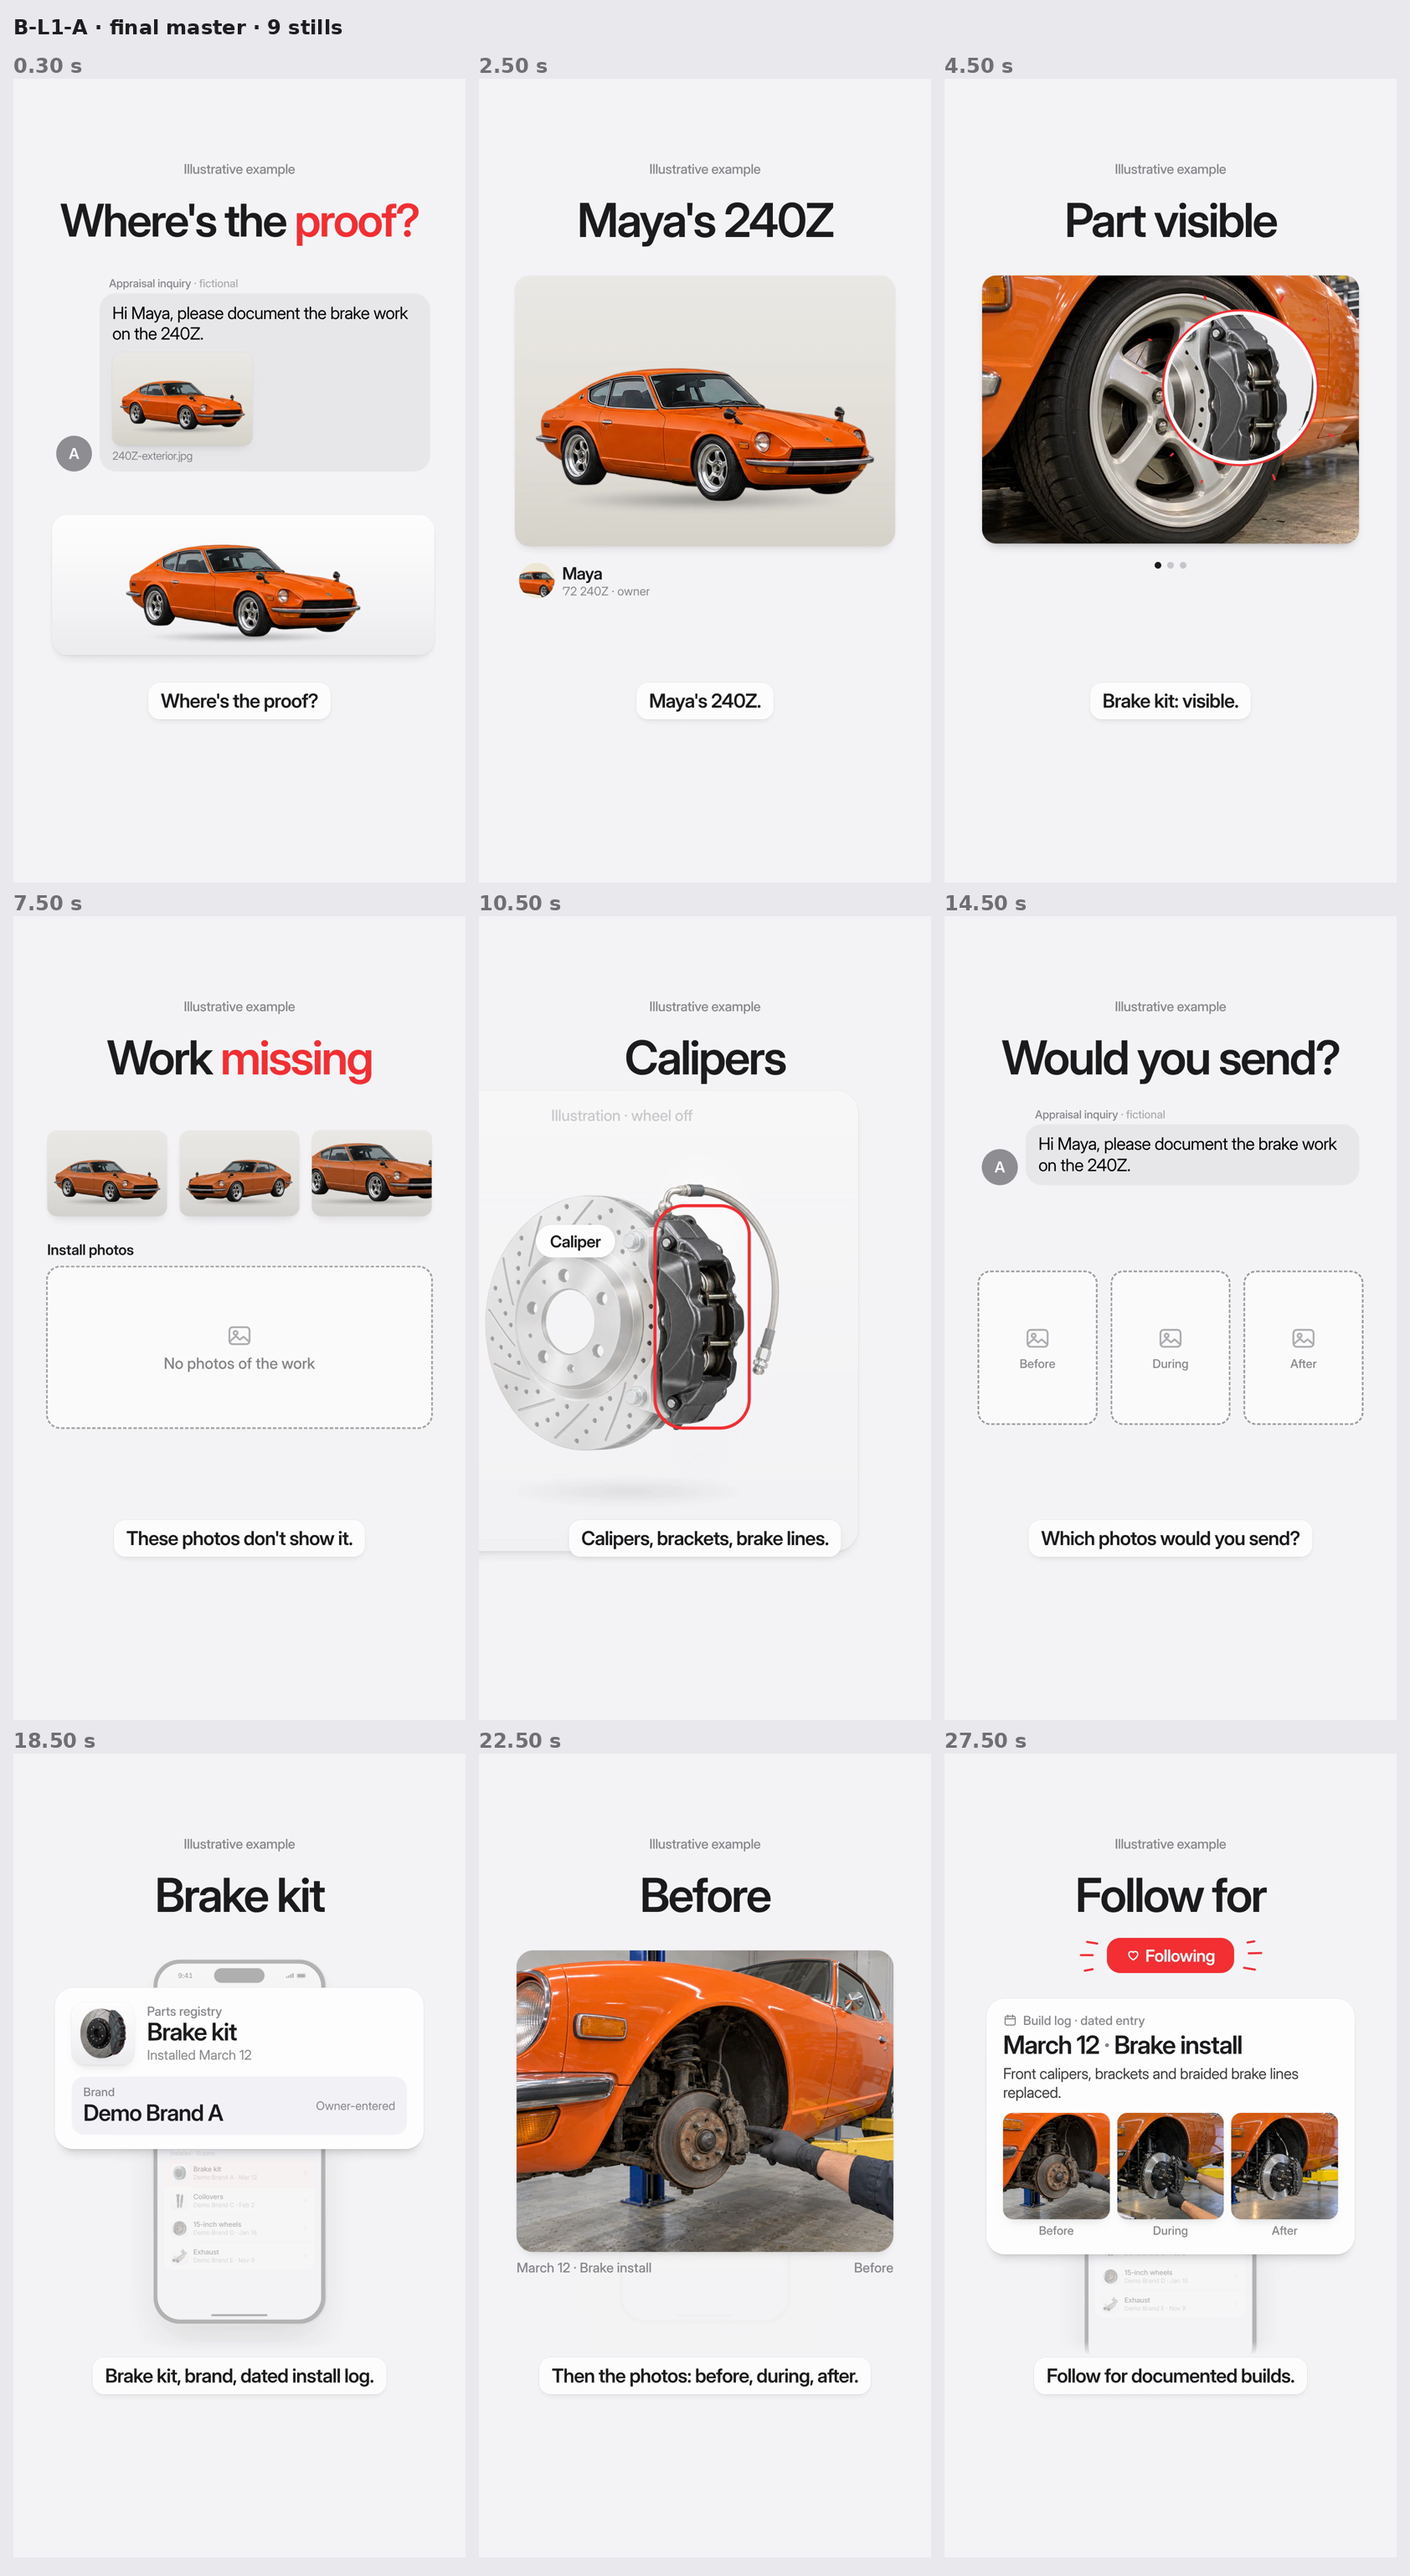
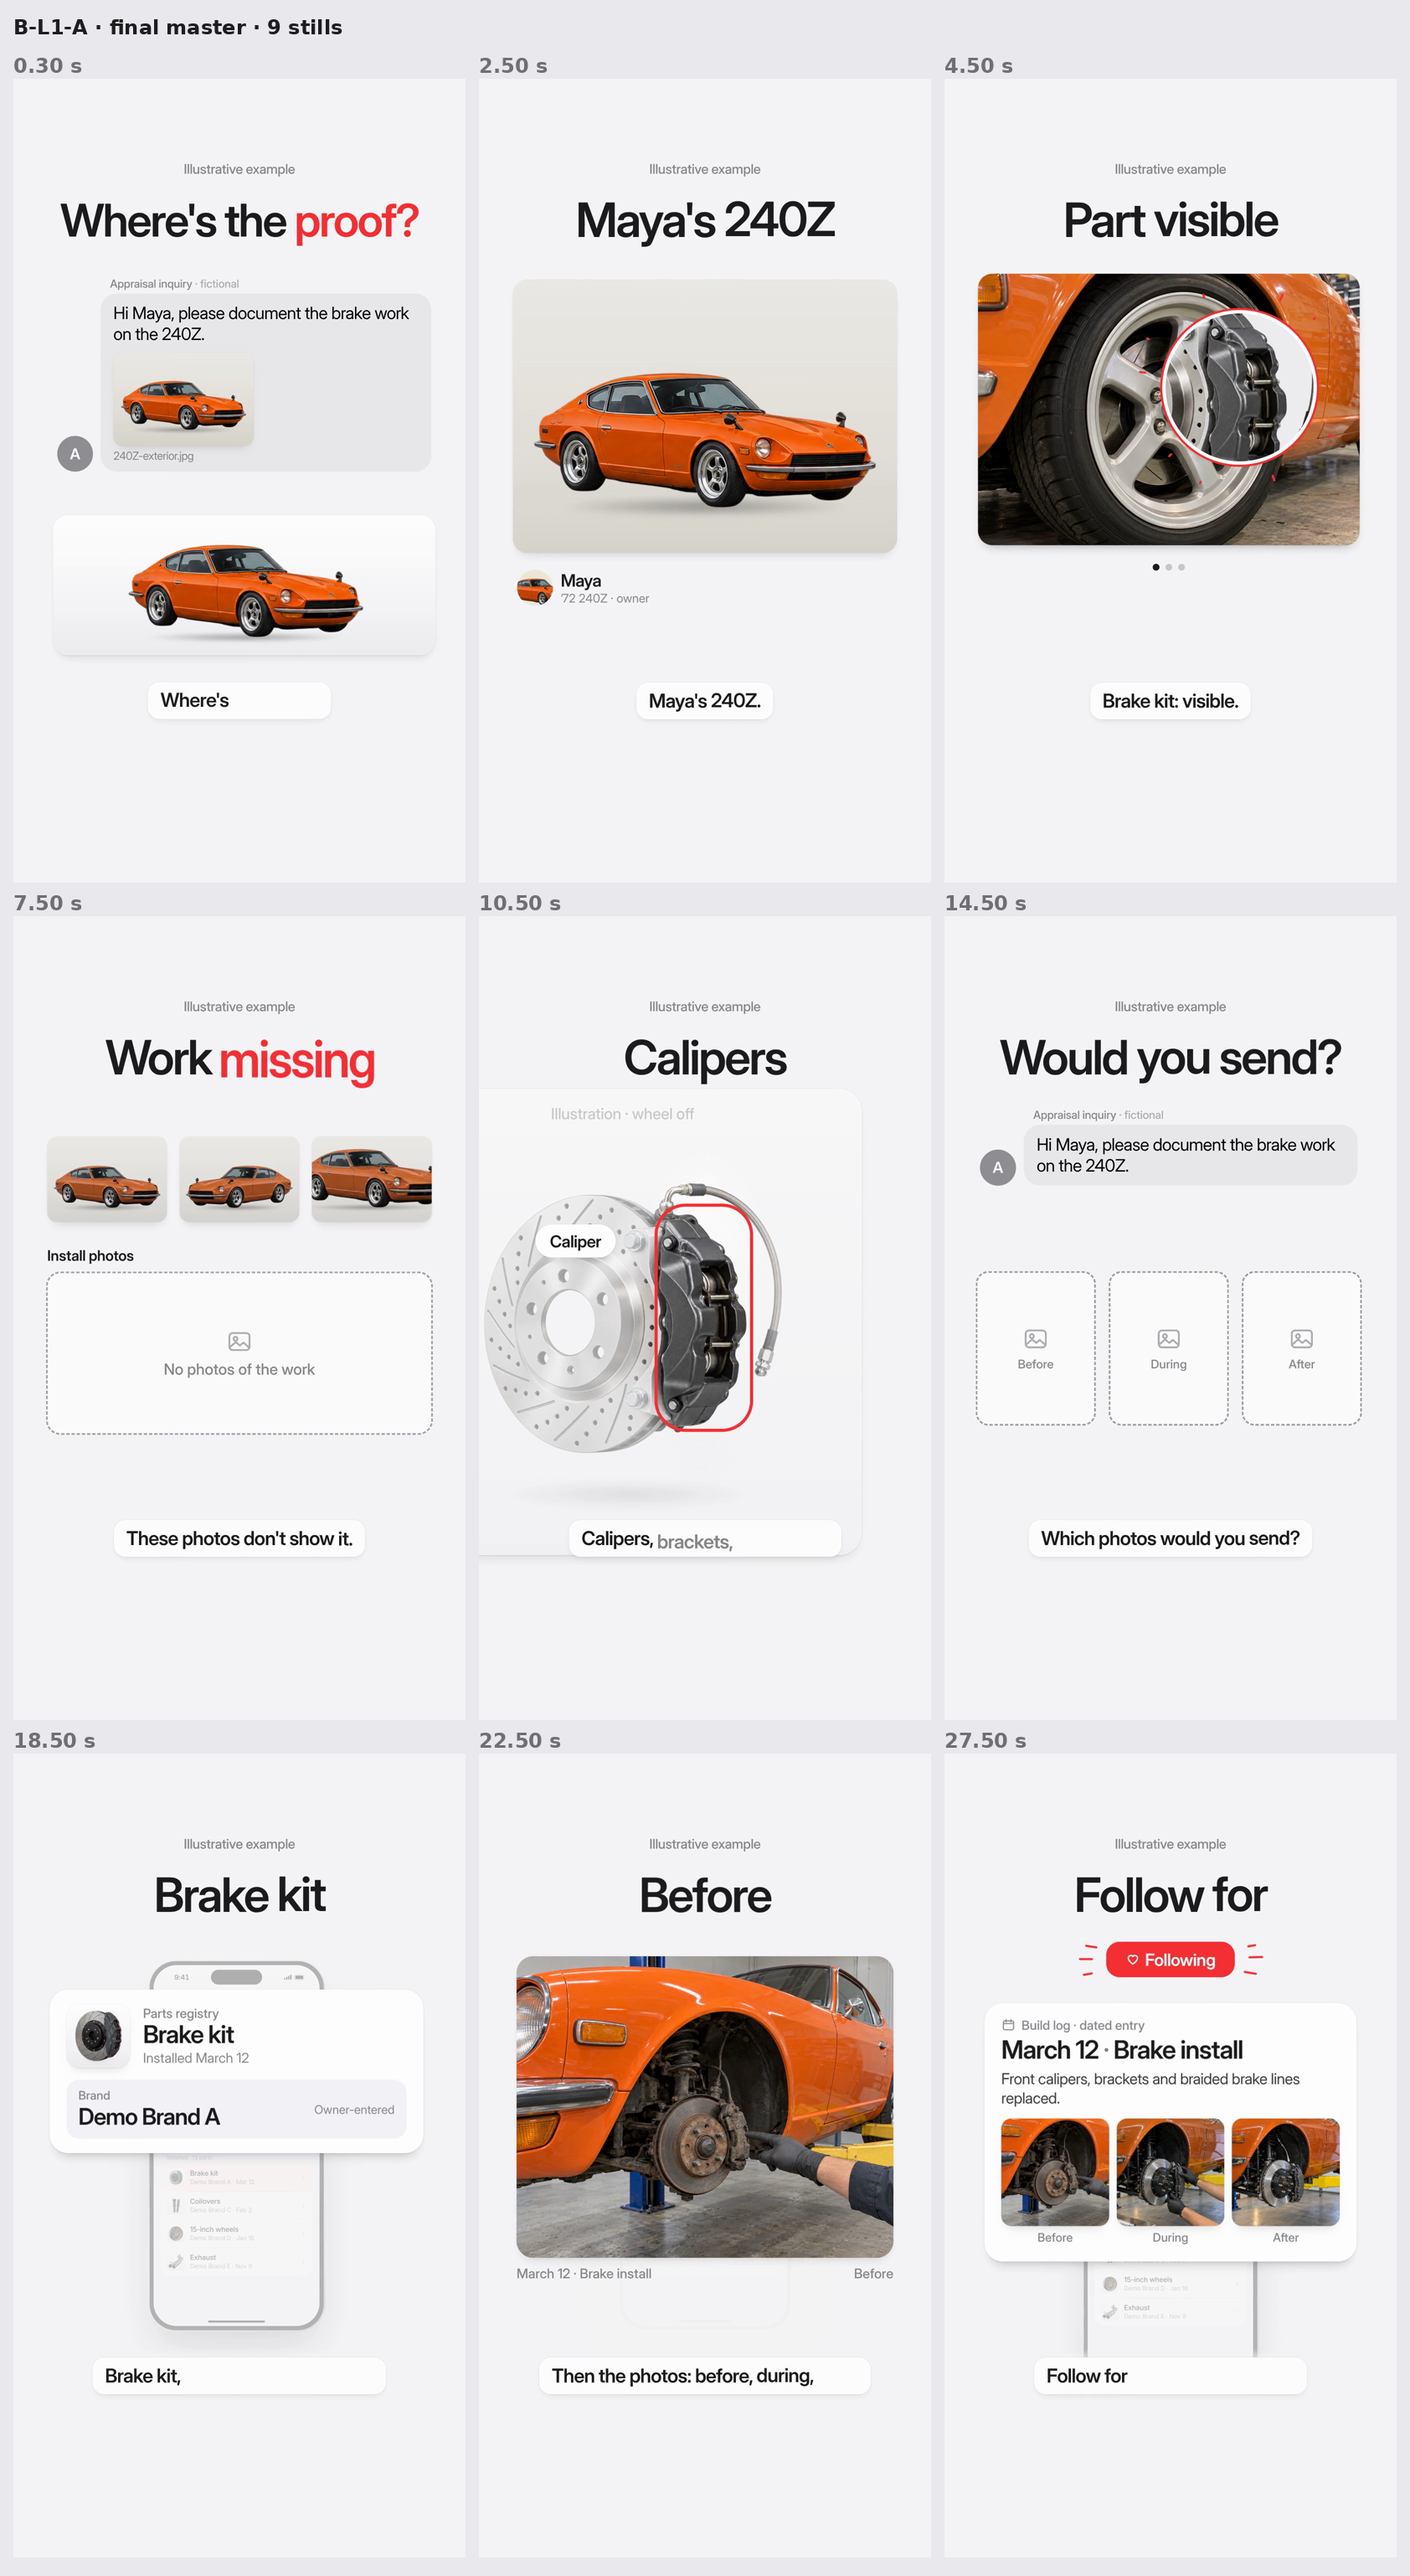
Lab W44 B: motion pass (always alive) for B-L1..L3, masters replaced on renders
Per-word headline springs with kinetic pops and staggered exits, per-word subtitles, loop-safe
handheld breathe (circular drift, periods divide 30 s) and shot-level idle life. Static 0.5 s
windows 8/9/18 -> 0/0/0; audio and beds unchanged; 82/82 cues within 1 frame.

Claude-Session: https://claude.ai/code/session_016g3Ws6RKPFxbXeFgZ5cwJK

diff --git a/weeks/2026-W44/lab/B/film/src/L3.tsx b/weeks/2026-W44/lab/B/film/src/L3.tsx
@@ -47,7 +47,7 @@ export const A = ({ t }) => {
 
 // ---------------------------------------------------------------- B · first reply, next reply, same guess copied (3-11)
 const CY = [500, 770, 1040];
-const bob = (t, k) => 13 * Math.sin((2 * Math.PI * (t - 3)) / 2.6 + k * 2.1) * lin(t, 3.0, 3.6) * (1 - lin(t, 8.0, 8.5));
+const bob = (t, k) => 13 * Math.sin((2 * Math.PI * (t - 3)) / 2.6 + k * 2.1) * lin(t, 3.0, 3.6);
 const R1 = "Demo Brand B, I think";
 export const B = ({ t }) => {
   const frz = eo(lin(t, 8.0, 8.35));
@@ -57,13 +57,13 @@ export const B = ({ t }) => {
   const firm = 1 + 0.05 * Math.sin(Math.PI * clamp((t - 7.0) / 0.22));
   const al = t >= 9.0; const tr = eo(lin(t, 10.0, 10.55));
   // brand-name boxes (stage coords) for the alignment + copy trace
-  const B1 = { x: 212, y: CY[1] + 58, w: 324, h: 72 }, B2 = { x: 426, y: CY[2] + 58, w: 324, h: 72 };
+  const B1 = { x: 212, y: CY[1] + 58 + bob(t, 1), w: 324, h: 72 }, B2 = { x: 426, y: CY[2] + 58 + bob(t, 2), w: 324, h: 72 }; // ride their rows' bob
   const path = `M ${B1.x + B1.w} ${B1.y + B1.h / 2} C ${B1.x + B1.w + 260} ${B1.y + 20}, ${B2.x + B2.w + 200} ${B2.y - 40}, ${B2.x + B2.w + 8} ${B2.y + B2.h / 2}`;
   return (
     <AbsoluteFill>
-      <Cam t={t} keys={[[3, 540, 905, 1.05], [3.4, 540, 905, 1], [7.9, 540, 905, 1.045], [8.4, 540, 860, 0.92], [11, 540, 860, 0.93]]}>
+      <Cam t={t} keys={[[3, 540, 905, 1.05], [3.4, 540, 905, 1], [7.9, 540, 905, 1.045], [8.4, 540, 860, 0.92], [11, 540, 860, 0.95]]}>
         <div style={{ position: "absolute", inset: 0, filter: `saturate(${1 - 0.5 * frz})` }}>
-          {/* rows bob gently 3-8.4 s and settle before the 9 s rings / copy trace, which are drawn on their exact positions */}
+          {/* rows bob gently from 3 s; the 9 s rings, copy trace and chip ride the same bob, so they stay on the brand names */}
           <Abs x={90} y={CY[0] + bob(t, 0)}><Comment who="jules.rx7" av={JULES} avBg="#EEDDDD" meta="3h">What turbo is that?</Comment></Abs>
           <Abs x={90} y={CY[1] + bob(t, 1)} style={pop(t, 3.0, { rise: 30 })}>
             <Comment who="boost.bri" av="car-04" avBg="#DDE3EC" meta="2h">
@@ -80,7 +80,7 @@ export const B = ({ t }) => {
             <path d={path} fill="none" stroke={RED} strokeWidth={6} strokeLinecap="round" pathLength={1} strokeDasharray={1} strokeDashoffset={1 - tr} />
             {tr > 0.95 ? <path d={`M ${B2.x + B2.w + 8} ${B2.y + B2.h / 2} l 26 -22 M ${B2.x + B2.w + 8} ${B2.y + B2.h / 2} l 32 10`} stroke={RED} strokeWidth={6} strokeLinecap="round" fill="none" /> : null}
           </svg> : null}
-          {tr > 0 ? <Abs x={800} y={CY[1] + 160} style={pop(t, 10.25, { rise: 12 })}><Chip style={{ height: 60, fontSize: 30 }}>Copied</Chip></Abs> : null}
+          {tr > 0 ? <Abs x={800} y={CY[1] + 160 + bob(t, 1)} style={pop(t, 10.25, { rise: 12 })}><Chip style={{ height: 60, fontSize: 30 }}>Copied</Chip></Abs> : null}
         </div>
       </Cam>
     </AbsoluteFill>

diff --git a/weeks/2026-W44/lab/B/changes.md b/weeks/2026-W44/lab/B/changes.md
@@ -82,3 +82,40 @@ Wayne supplied ChatGPT-generated photos and cutouts (`kit/remotion/public/img/la
 - **B-L3:** `b-supra-turbo-during.jpg` ("During") and `b-supra-turbo-after.jpg` ("After") replace the vacuum-line, wastegate and kit cutouts. Log tiles are cropped to 0.66 high, so the card keeps its old height above the subtitles at 24–25, and they enlarge into a 430×640 pair at 23.0. The note text still reads "Turbo, wastegate and vacuum lines installed." The 23.0 enlargement now starts from the tiles' real position (it used to start ~390 px low), and its tap moved onto the photos.
 - **Unchanged:** the 240Z, Miata and Supra car cutouts in the hooks, galleries and build pages; the part-01 turbo crop (0–3, 11–13, 27–30); every UI card.
 - **Checks (delivered AAC):** all three are 30.000 s, 900 frames, 1080×1920 at 30 fps, mux offset 0.00 ms, 82 of 82 cues within ±1 frame. B-L1 -14.1 LUFS, -1.5 dBTP; B-L2 -14.1 LUFS, -1.8 dBTP; B-L3 -14.2 LUFS, -1.8 dBTP. Review: 31 stills from the composition and 28 from the masters around the changed beats, with no clipped or overlapping text and "Illustrative example" on every frame. Final sheets regenerated (`storyboard/B-L*-final-sheet.png`).
+
+## 2026-10-15 · Motion pass ("Always alive" rule; re-render of B-L1, B-L2, B-L3, hook A)
+Improved in place: story, beats, seconds, layout, on-screen text, subtitles, cues, music, ducking and the audio masters are unchanged. `score.py` re-runs bit-identical and the beds are byte-identical, so only the three `.mp4` masters were replaced on `renders`.
+
+**Measure** (`film/energy.py`, same tool as lane A+): luma at 270×480, mean absolute frame-to-frame difference, averaged per 0.5 s window. *Static* means below 0.35, the energy of our slow drift-push holds.
+
+| id | static windows before → after | lowest window before → after | longest frozen run before → after |
+|---|---|---|---|
+| B-L1 | 8 → 0 (1.5, 8.5, 10.5, 19.5, 22.5, 25.5, 26.0, 29.5) | 0.000 → 0.373 | 1.37 s (25.5) → 0 |
+| B-L2 | 9 → 0 (4.5, 10.5, 13.0, 23.0, 24.5, 25.5, 26.5, 27.0, 29.5) | 0.000 → 0.448 | 0.63 s (29.4) → 0 |
+| B-L3 | 18 → 0 (3.5–10.0, 11.5, 13.5, 15.5, 18.5, 19.5, 26.5–29.5) | 0.085 → 0.351 | 0.43 s → 0 |
+
+**What changed** (`src/lib.tsx` unless noted)
+- **Headline:**
+  - Each word springs up 4 frames apart with ~12 % overshoot, with a blur that follows its speed (motion blur), replacing the eased rise-from-blur.
+  - Red key words get a kinetic pop, overshooting in scale only, from the cap line. Frame 0 still opens on the full hook headline.
+  - A held line breathes: a 1.8 % scale creep, eased back to 1.0 over 29.4–30 s for the loop seam.
+  - Exits are per word on a staggered rise, fade and blur, inside the same last 0.2 s, so every change still lands on its second.
+- **Subtitles:** the white plate springs in, and the words reveal in reading order across the spoken part of the VO window (weighted by length). Font, size, plate, red words and windows are unchanged, and the exit is unchanged.
+- **Handheld breathe on every shot** (not the headline, subtitles or "Illustrative example"):
+  - A 7 px circular drift (constant speed, so it never stalls) plus a 1.4 % scale breathe about (540, 905).
+  - Periods are 5 s and 7.5 s. Both divide 30 s and every term is 0 at t = 0, so frame 0 is unchanged and the 29–30 loop still lands on it seamlessly.
+  - The circle was chosen numerically: its slowest half-second moves 2.3× more than a sum of sines.
+- **Loop-safe life where a shot held** (all on sines of absolute time that are 0 at t = 0 and t = 30; the root publishes `window.__T`):
+  - B-L1: the opening/loop 240Z cut-out drifts ±10 px.
+  - B-L2: both shop cars drift ±18 px *identically* inside their tiles, and the tile pair, labels, alignment guides, credit slots and the 5.0 s burst bob together (±9 px). So "same car, same photo" and the 5–6 s exact alignment still hold.
+  - B-L3: the turbo detail crop has a slow ±6 % Ken Burns. The comment rows bob from 3 s, and the 9 s alignment rings, copy trace and "Copied" chip ride their rows' bob, so they stay on the brand names. The post-freeze camera push runs 0.92 → 0.95 (was 0.93) over 8.4–11 s. Jules's question in the 29–30 restore bobs.
+- Drawn lines already drew on (copy trace, alignment guides, strike, rings), and shots already used remocn moves. No new remocn pieces; the beat's existing transitions are untouched.
+
+**Checks (delivered AAC)**
+- All three are 30.000 s, 900 frames, 1080×1920 at 30 fps, with mux offset 0.00 ms and 82 of 82 cues within ±1 frame.
+- Loudness: B-L1 -14.1 LUFS, -1.5 dBTP; B-L2 -14.1 LUFS, -1.8 dBTP; B-L3 -14.2 LUFS, -1.8 dBTP. These match the previous masters, since the audio is identical.
+- Review:
+  - 75 composition stills (25 per video, every beat, with safe-area guides) plus targeted re-checks of the alignment, ring and loop beats.
+  - 24 frames from the delivered masters.
+  - No clipped or overlapping text. "Illustrative example" is on every frame, and the loop frames match frame 0 (B-L1, B-L2) or the specced restore crop (B-L3).
+- B-L3 frames 240–340 were re-rendered as a fix range and spliced (`out/B-L3-fix.mp4`, one re-encode). Final sheets were regenerated (`storyboard/B-L*-final-sheet.png`).
